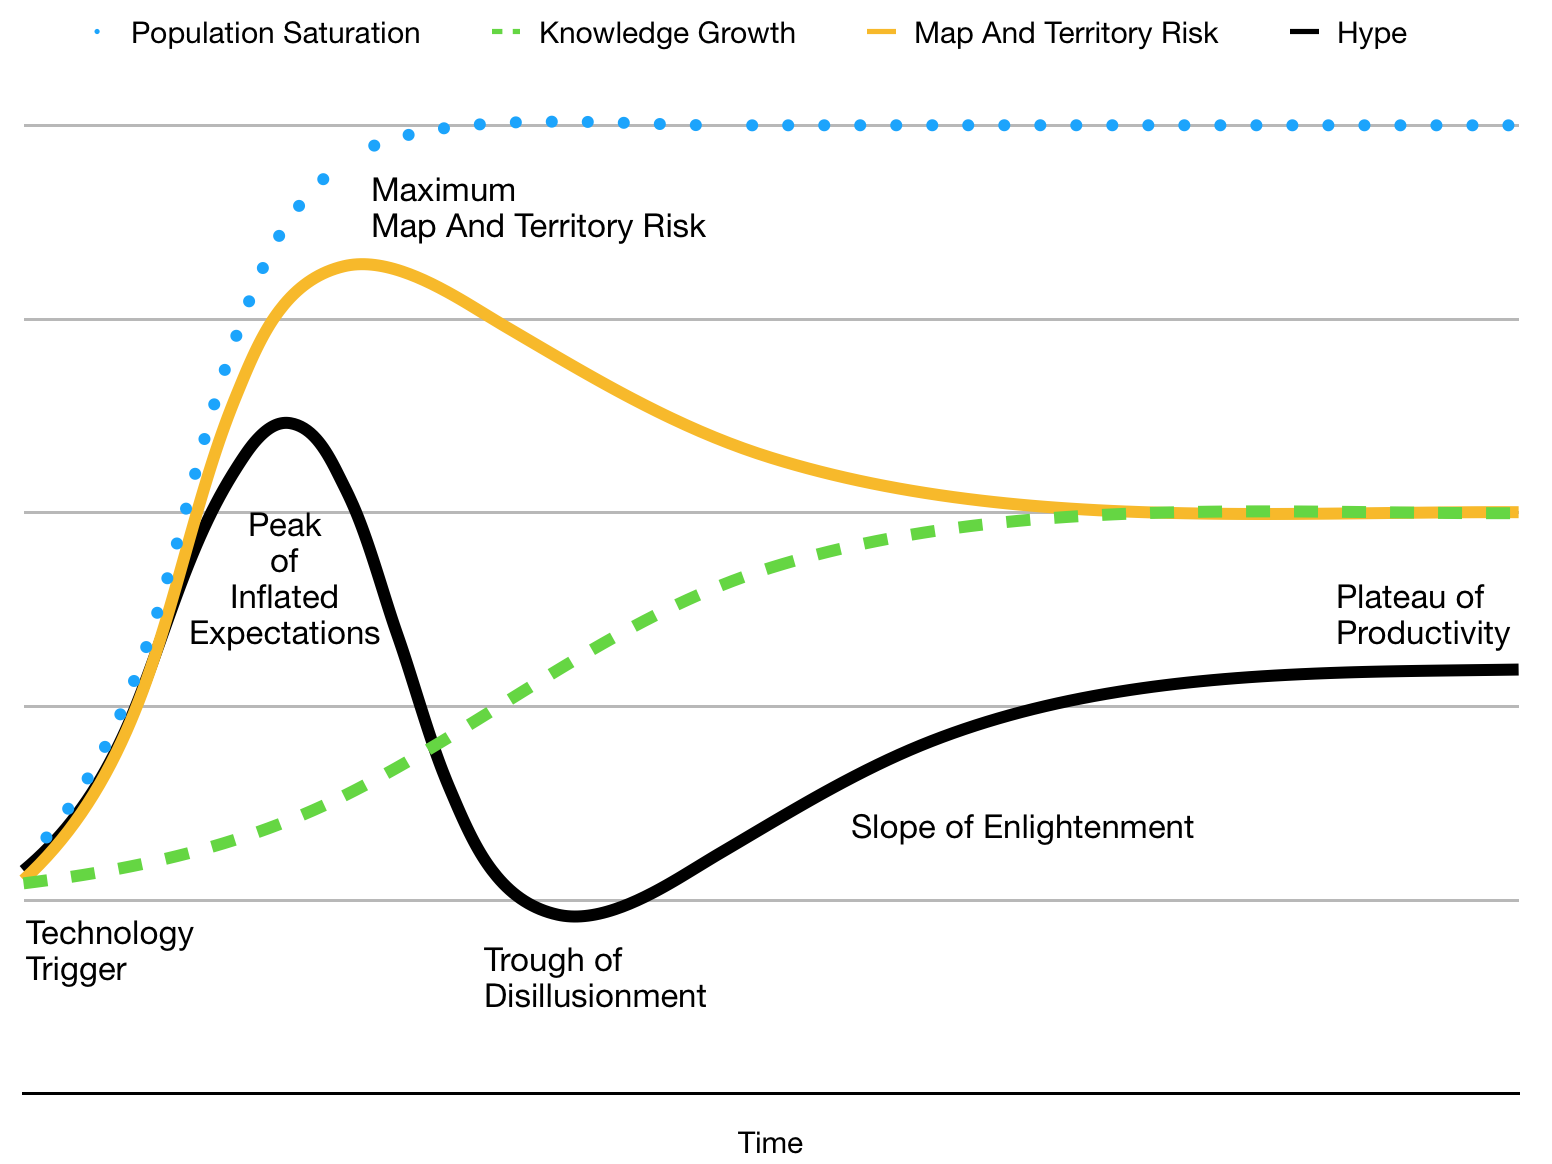
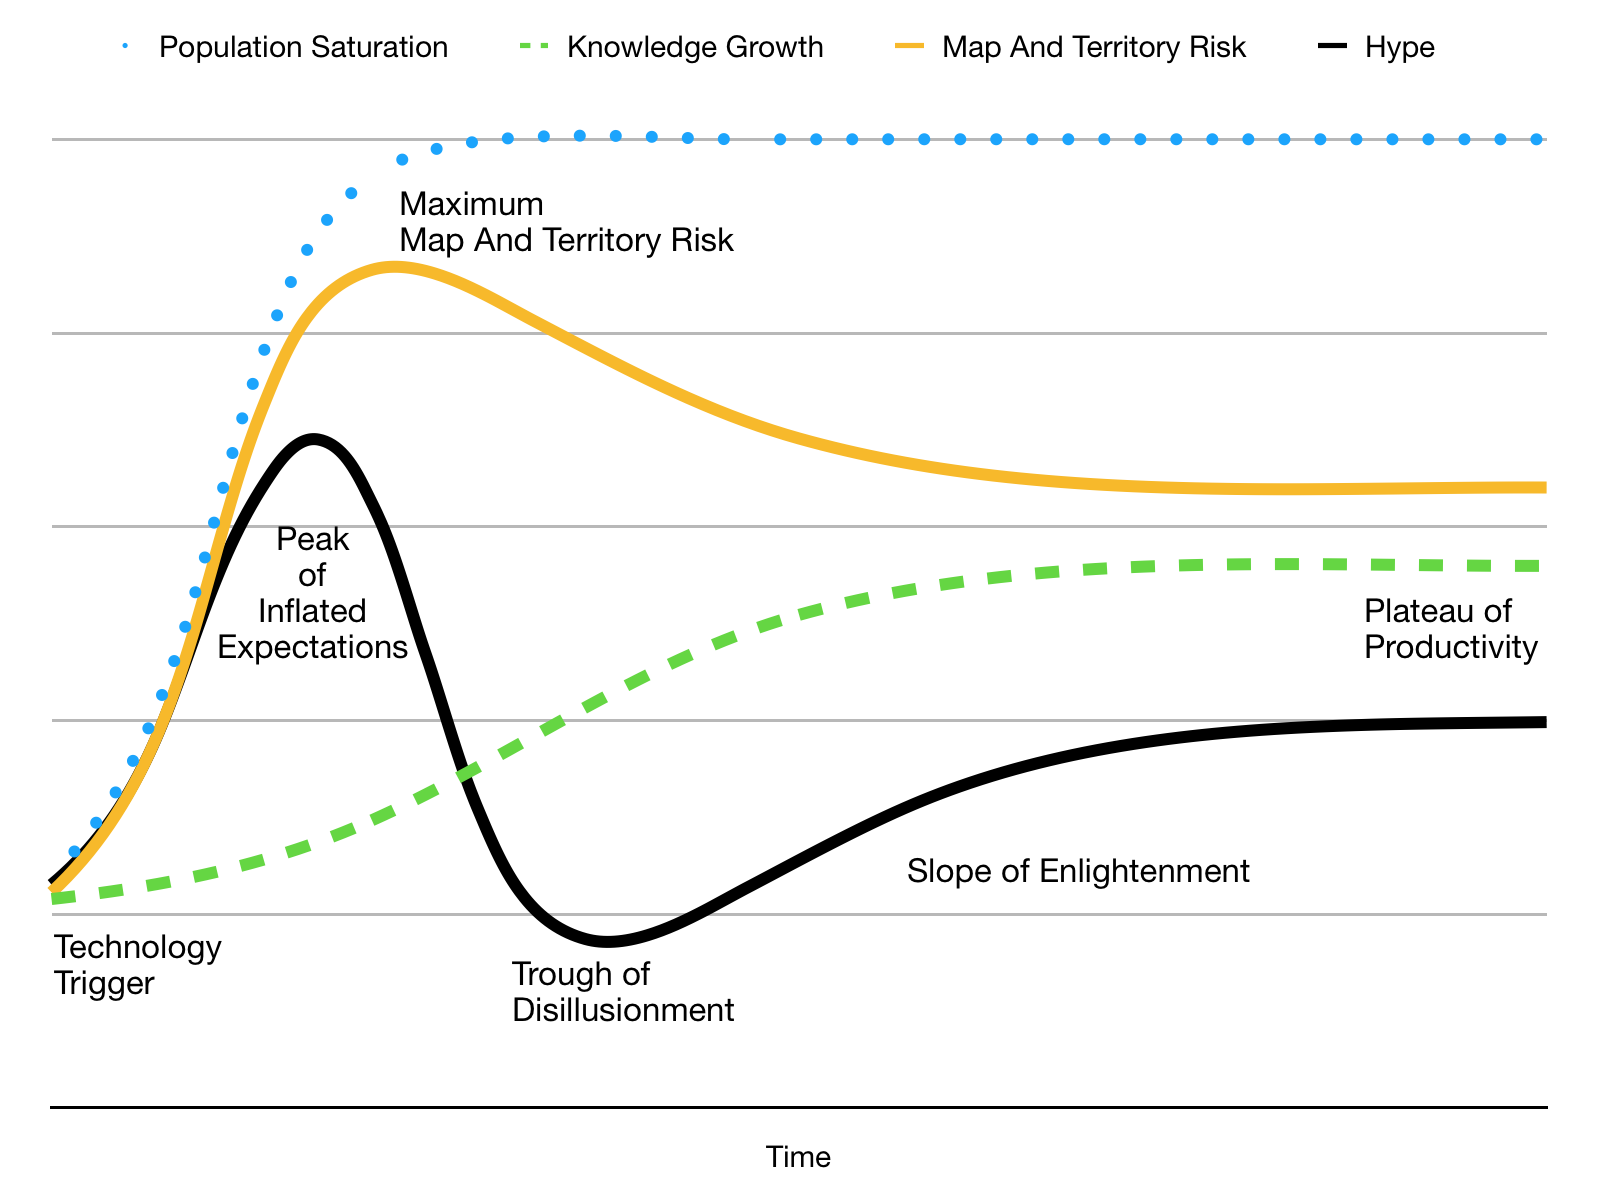
Map And Territory Risk
Former-commit-id: 266ad45634c7acbbe42e8d4440dcaa76ec4448a6

diff --git a/menagerie/Map-And-Territory-Risk.md b/menagerie/Map-And-Territory-Risk.md
@@ -156,7 +156,7 @@ Some of this seems obvious:  _Of course_ SLOC is a terrible measure performance!
 
 In the same way that [markets evolve to demand more features](), our behaviour evolves to incorporate new ideas.  The more popular an idea is, the more people will modify their behaviour as a result of it, and the more the world will change.   Will the idea still be useful as the world adapts?   
 
-### Hype Cycles
+### Example: Hype Cycles
 
 Most ideas (and most products) have a slow, hard climb to wide-scale adoption.  But some ideas seem to disperse much more rapidly and are picked up quickly because they are exciting and promising, having greater "memetic potential" within society.  One way this evolution manifests itself in the world is though the [Hype Cycle](https://en.wikipedia.org/wiki/Hype_cycle):
 
@@ -166,33 +166,19 @@ The five phases (and the "Hype" itself) are shown in the chart below, with the t
 
 ![Hype Cycle, along with Map & Territory Risk](images/hype-cycle.png)
 
-In this diagram we are also _deriving_ hype from two other things:
- - The saturation of the idea within the population.
- - The amount known about the idea by the population.
+Also in this diagram we are showing where the hype originates:
+ - The _saturation of the idea_ within the audience.
+ - The _amount known about the idea_ by the audience.
  
-From these two things, we can figure out where our maximum [Map and Territory Risk]() lies:  it's the point where knowledge of an idea is furthest from the understanding of it.  This acts as a "brake" on the popularity of the idea, corresponding to the "Trough of Disillusionment".  
+Both of these are modelled with [Cumulative Distribution](https://en.wikipedia.org/wiki/Cumulative_distribution_function#Use_in_statistical_analysis) curves.  From these two things, we can figure out where our maximum [Map and Territory Risk]() lies:  it's the point where knowledge of an idea is furthest from the understanding of it.  This acts as a "brake" on the popularity of the idea, corresponding to the "Trough of Disillusionment".  
 
-Where the _idea_ and the _knowledge_ grow together, we don't see a "Trough of Disillusionment" at all, as shown in this chart:
+Where the _saturation_ and the _knowledge_ grow together, [Map and Territory Risk]() peaks less fiercely, and we don't see the corresponding "Trough of Disillusionment" at all, as shown in this chart:
 
-![Hype Cycle 2: Slower growth means no "Trough of Disillusionment"](images/hype-cycle2.png)
-
-
-
-
-In this chart, the Hype Cycle
-
-tbd.   hype cycle.
-
-tbd. describe this with relation to M&T risk.
-
-FacebooK?
-
-tbd.  diagram showing new idea getting used more and more, reality changing as a result, idea is rendered less useful.
-
+![Hype Cycle 2: Slower growth of Map and Territory Risk means no "Trough of Disillusionment"](images/hype-cycle2.png)
 
 ## Humans and Machines
 
-The _qualities_ of [Map and Territory Risk]() change as we shift our focus from _people_ to _machines_.   Whereas people can be expected show scepticism to new (unlikely) information, our databases accept it unquestioningly.  _Forgetting_ is an everyday, usually benign part of our human [Internal Model](), but for software systems it is a production crisis involving 3am calls and backups.  
+The _qualities_ of [Map and Territory Risk]() change as we shift our focus from _people_ to _machines_.   Whereas people can be expected show skepticism to new (unlikely) information, our databases accept it unquestioningly.  _Forgetting_ is an everyday, usually benign part of our human [Internal Model](), but for software systems it is a production crisis involving 3am calls and backups.  
 
 For Humans, [Map and Territory Risk]() is exacerbated by [cognitive biases]():
 
@@ -203,7 +189,7 @@ Here are some examples:
 It's tempting to think that [Map And Territory Risk](Map-And-Territory-Risk) is something that happens to someone else, and that you are going to be immune to it.   Example in the workplace, the release.
 
 
-## Methodologies as Maps
+## Example: Methodologies as Maps
 
 
 ## Organisations, Hierarchies
@@ -241,25 +227,18 @@ When faced with so many mis-aligned objectives, it seemed completely hopeless to
 
 ### Picking Fights
 
-It feels like there's no way back from that.  All of life might well be a big **Map and Territory** illusion.  But let's analyse just a bit:
- - At each layer of the onion, the objectives changed.  But, they impacted on the objectives of the layer below.
+It feels like there's no way back from that.  All of life might well be a big [Map and Territory]() illusion.  But let's analyse just a bit:
+ - At each layer, the objectives changed.  But, they impacted on the objectives of the layer below.
  - Therefore, it seems like the more layers you have, the less likely it is that your objectives become inconsistent between the lower and higher levels.
  - On a new project, it seems like a good idea to model this stuff:  does the objective of the work you're about to undertake "align" with the objectives at a higher level?  
  
+Trying to spot [Map and Territory Risk]() ahead-of-time in this manner seems like a useful way of trying to avoid [Vanity Projects](Agency-Risk#pet-project), and, if you get it right, allows you to see which [Goals]() in the organisation are fragile and likely to change.  However, usually, if you are working in a team, you have limited agency to decide which projects you feel are valuable.  
 
-Introduce Rapid Development example here?
-how to pick projects
-how to spot vanity projects
-how to spot where the Goal In Mind is hopelessly ill-thought-through.
-following the rules more important than getting things done.  
-Head in the sand
-
-
-
+This comes down to a personal decision: do you want to spend time working on projects that you know are going in the bin?  Some developers have the attitude that, so long as they get paid, it doesn't matter.  Others are also in it for the satisfaction of the work itself, so this ends up being a personal call.  (This theme will be developed further in [Staging and Classifying](Staging-and-Classifying).)
 
 ## Inadequate Equilibria
 
-So far, we've considered what happens when a team _has been told_ to optimise around a particular objective.  But it's not a great stretch from here to a point where people are optimising the metric at the expense of doing what they know is best for the project.  Or, optimising a metric for personal gain because that metric is more visible than other (perhaps more important) qualities.  This is [Agency Risk](Agency-Risk) which we'll look at in the next section.  
+So far, we've considered what happens to individuals, teams and organisations when told to optimise around a particular objective.  Sometime
 
 **Inadequate Equilibria** is a book by Eleizer Yudkovsky, who looks at how **Map and Territory Risk** can break not just departments, but entire societal systems.  Here is one example involving _academics_ and _grantmakers_ in academia:
 
